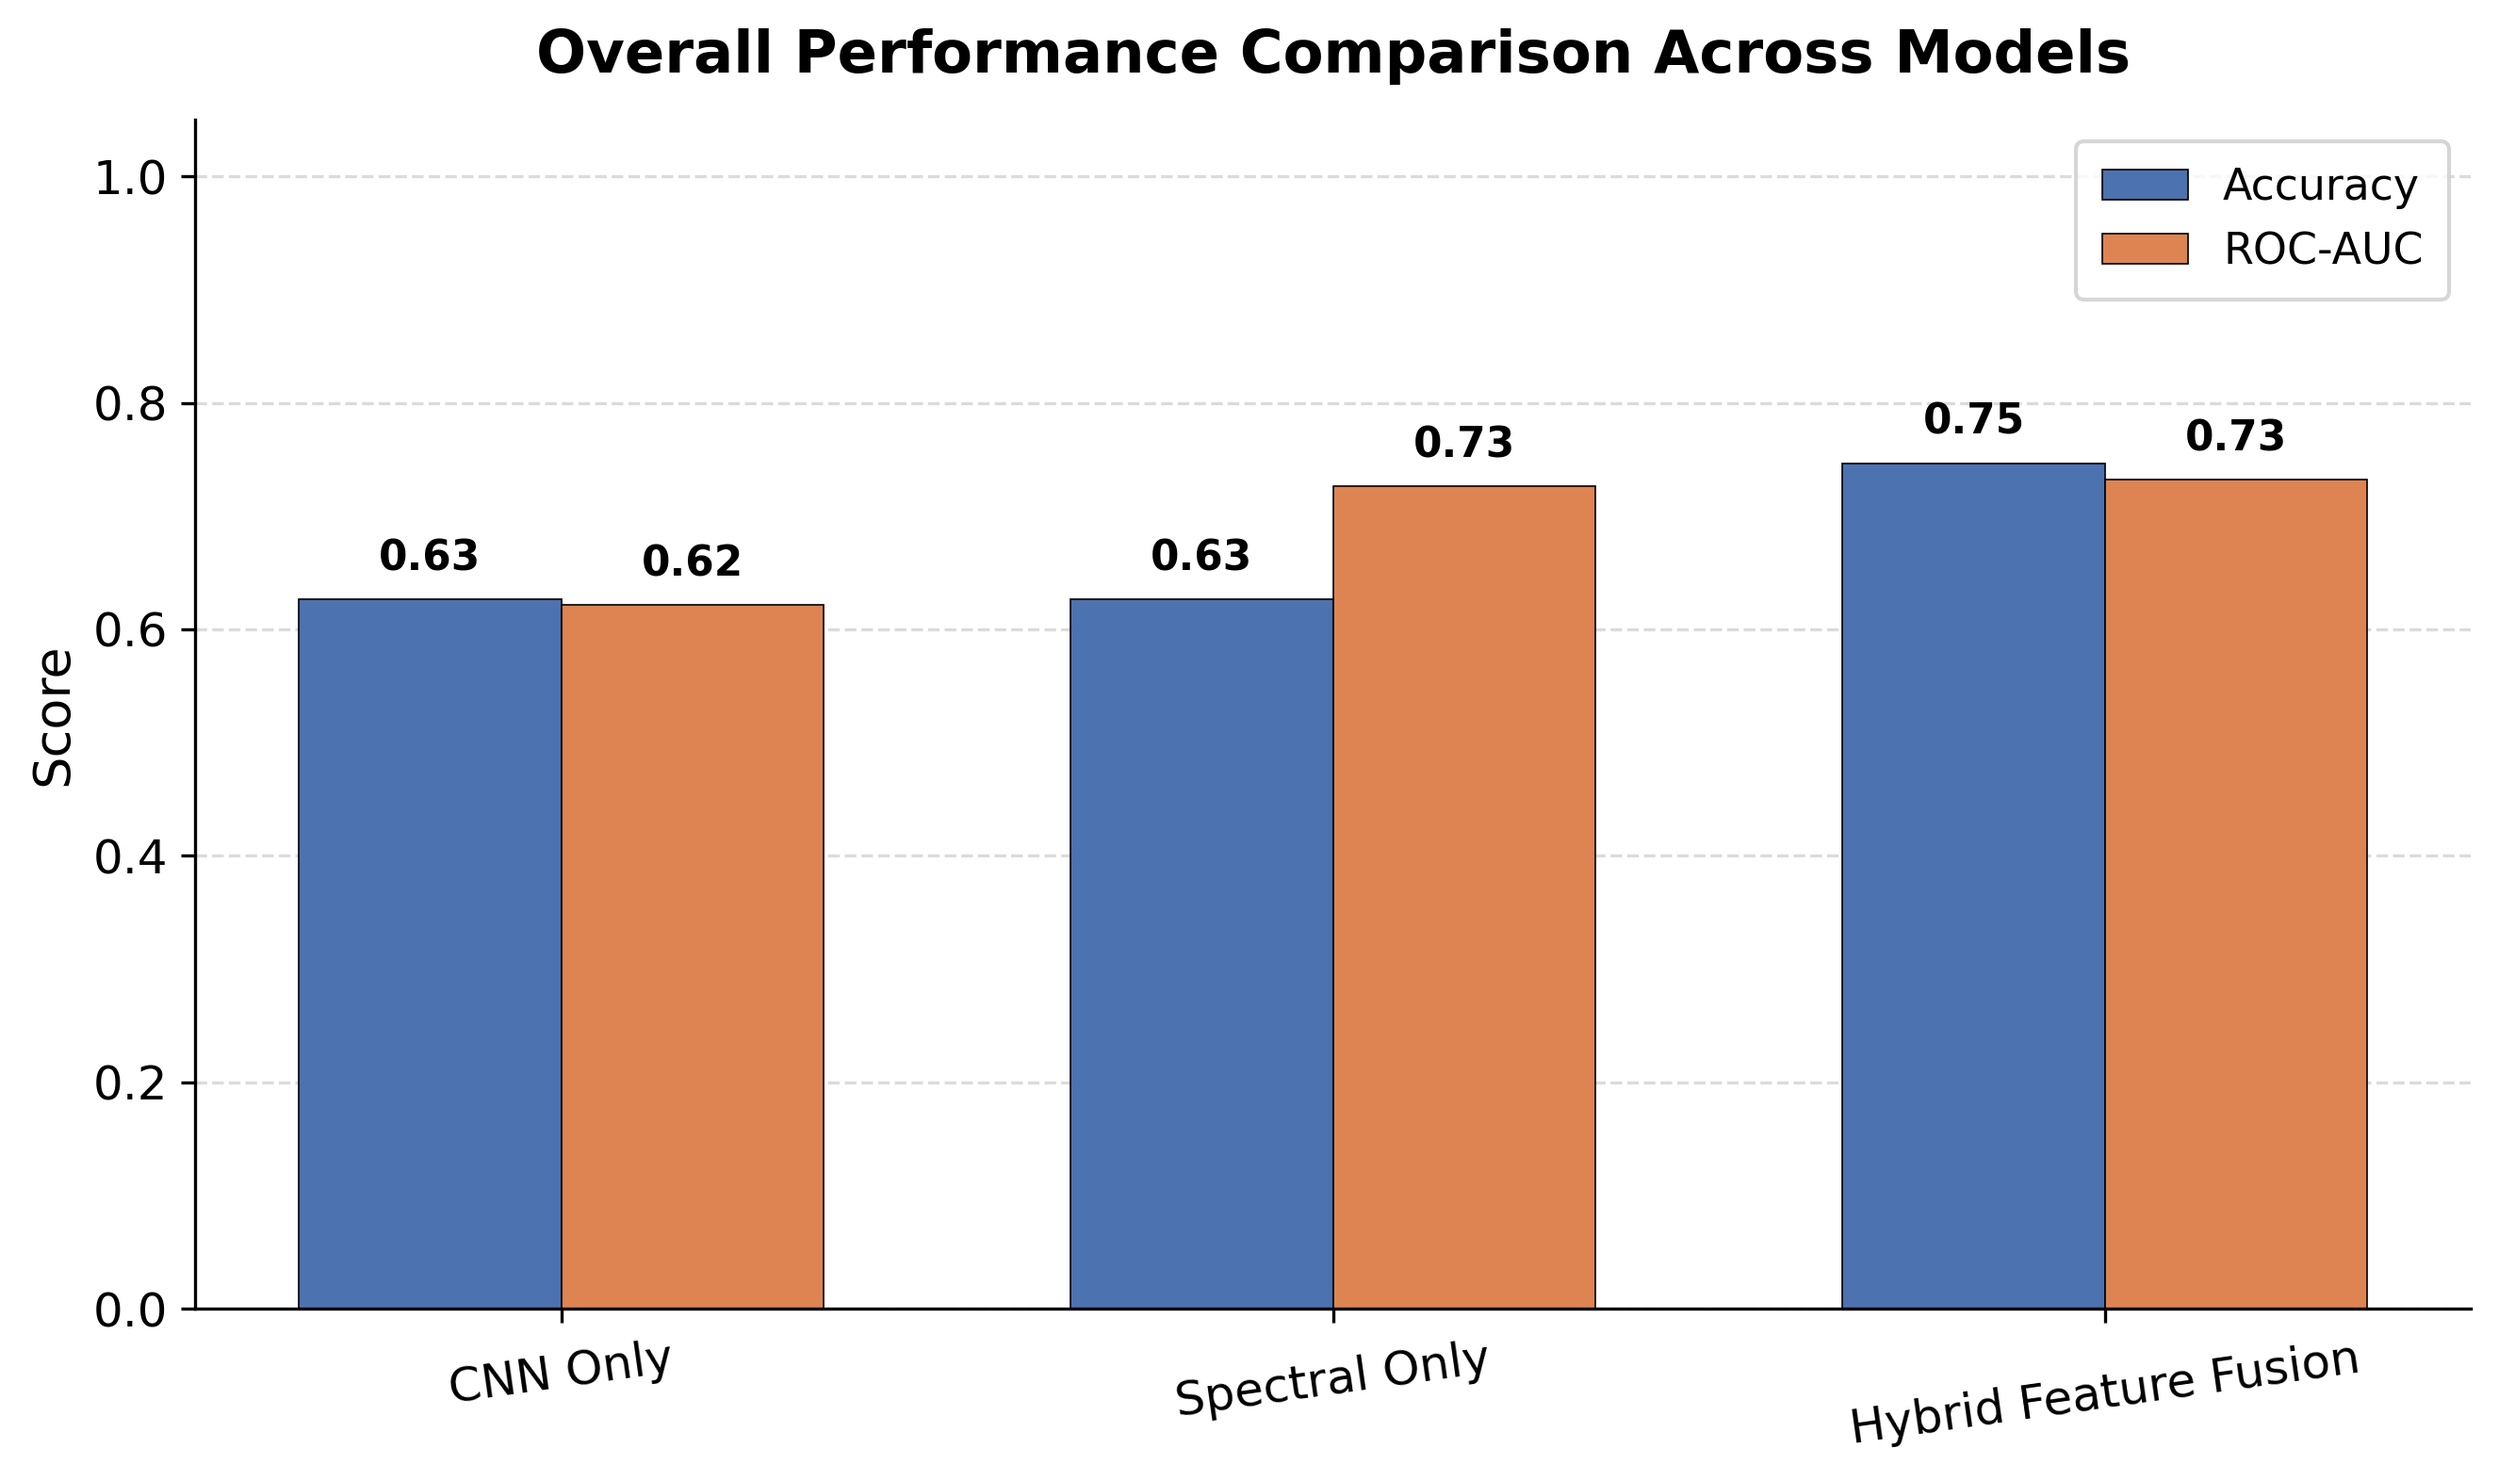
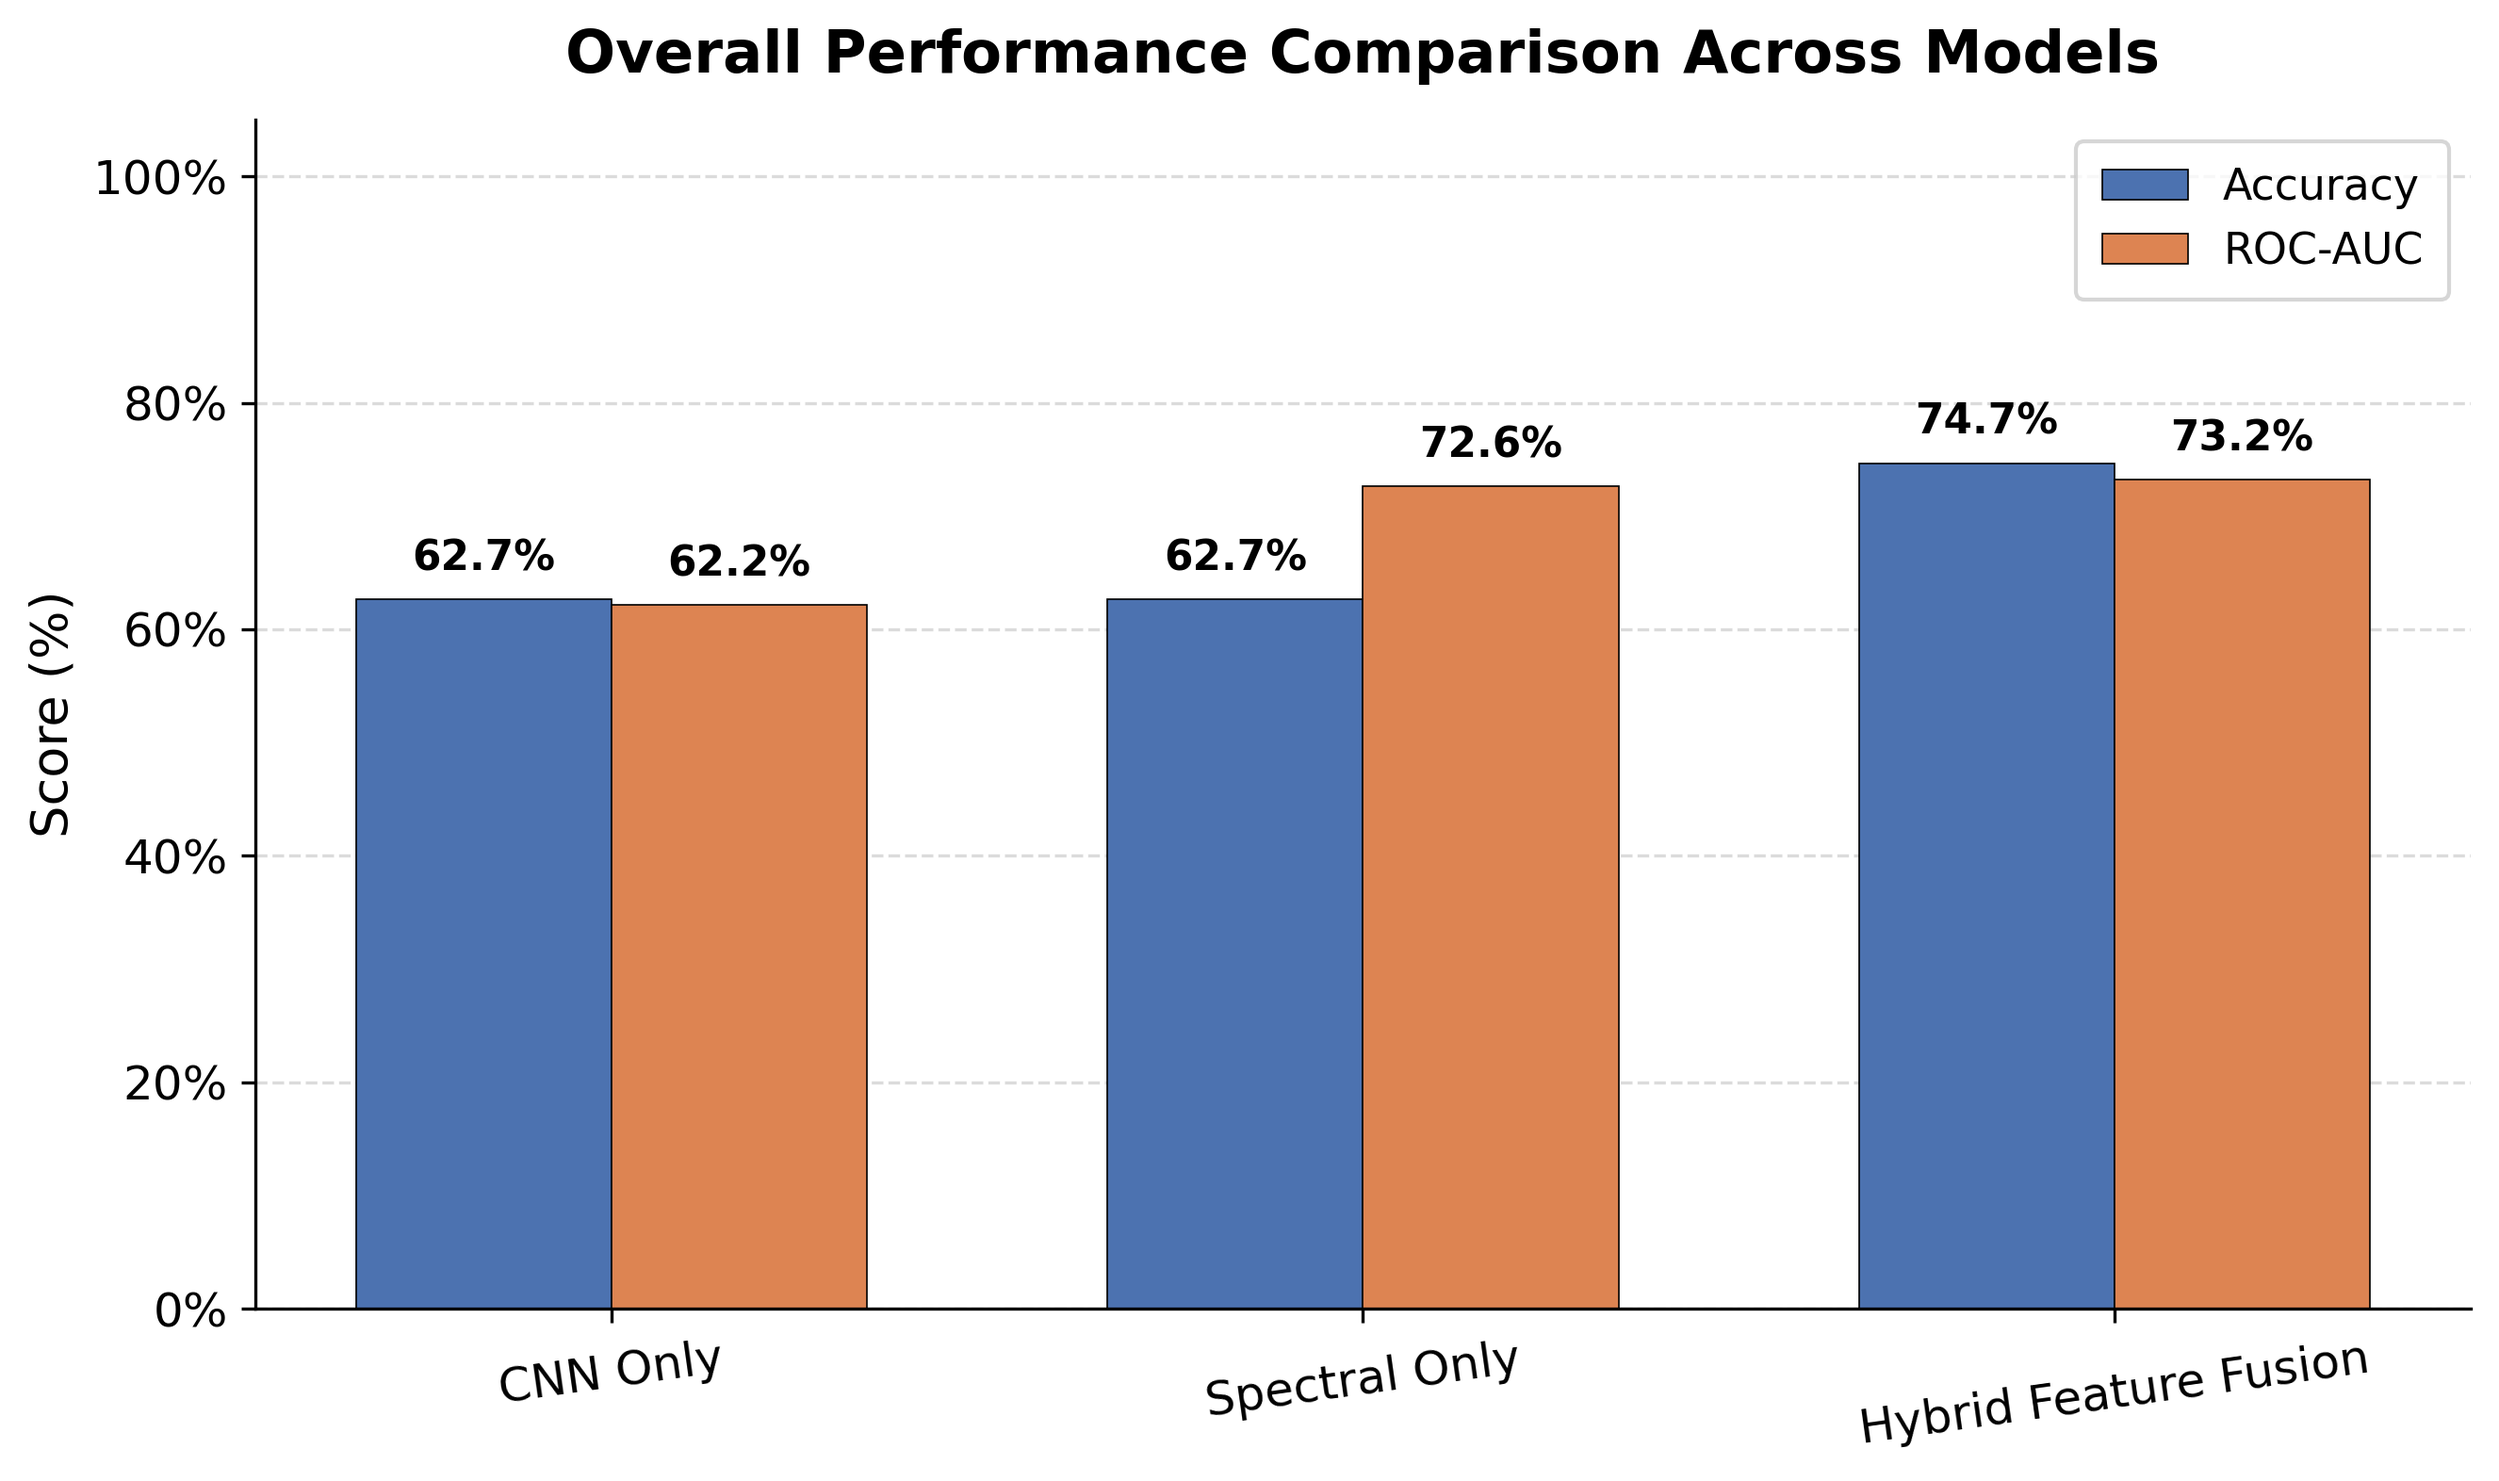
Add research code and notebooks

diff --git a/src/step12_bootstrap_ci.py b/src/step12_bootstrap_ci.py
@@ -1,0 +1,79 @@
+import numpy as np
+from sklearn.utils import resample
+from sklearn.metrics import (accuracy_score, precision_score,
+                             recall_score, f1_score)
+import pandas as pd
+import os
+
+# ============================================
+
+# ============================================
+
+jaipur_csv = "outputs/hybrid_feature_fusion/cross_region_predictions.csv"
+
+if os.path.exists(jaipur_csv):
+    # Real predictions file se load karo
+    df = pd.read_csv(jaipur_csv)
+    y_true = df["label"].values
+    y_pred = df["prediction"].values
+    print("✅ Jaipur predictions file se load ki!")
+
+else:
+    # Fallback — confusion matrix manually
+    print("⚠ File nahi mili, confusion matrix se use kar raha hoon...")
+    y_true = np.array([0]*50 + [1]*50)
+    y_pred = np.array([0]*42 + [1]*8 +
+                      [0]*27 + [1]*23)
+
+# ============================================
+# Bootstrap — 1000 iterations, seed=42
+# ============================================
+np.random.seed(42)
+
+n_iter = 1000
+metrics = {"Accuracy": [], "Precision": [], "Recall": [], "F1-Score": []}
+
+for _ in range(n_iter):
+    idx = resample(np.arange(len(y_true)), replace=True, n_samples=len(y_true))
+    yt = y_true[idx]
+    yp = y_pred[idx]
+
+    metrics["Accuracy"].append(accuracy_score(yt, yp))
+    metrics["Precision"].append(precision_score(yt, yp, zero_division=0))
+    metrics["Recall"].append(recall_score(yt, yp, zero_division=0))
+    metrics["F1-Score"].append(f1_score(yt, yp, zero_division=0))
+
+# ============================================
+# Results Print + Save
+# ============================================
+print("\n" + "="*55)
+print("  95% Bootstrap Confidence Intervals")
+print("  (n=1000 iterations, fixed seed=42)")
+print("="*55)
+
+results = {}
+for name, scores in metrics.items():
+    lo  = np.percentile(scores, 2.5)
+    hi  = np.percentile(scores, 97.5)
+    mn  = np.mean(scores)
+    results[name] = (mn, lo, hi)
+    print(f"{name:12s}: {mn*100:.2f}%  [{lo*100:.2f}% – {hi*100:.2f}%]")
+
+print("="*55)
+print("\n📋 Manuscript mein copy karo (Section 1.5.5):\n")
+for name, (mn, lo, hi) in results.items():
+    print(f"{name}: {mn*100:.2f}% (95% CI: {lo*100:.2f}%–{hi*100:.2f}%)")
+
+# Save to file
+os.makedirs("outputs/bootstrap", exist_ok=True)
+with open("outputs/bootstrap/bootstrap_ci_results.txt", "w") as f:
+    f.write("95% Bootstrap Confidence Intervals\n")
+    f.write("n=1000 iterations, seed=42\n")
+    f.write("="*40 + "\n")
+    for name, (mn, lo, hi) in results.items():
+        f.write(f"{name}: {mn*100:.2f}% [{lo*100:.2f}% - {hi*100:.2f}%]\n")
+    f.write("\nManuscript text:\n")
+    for name, (mn, lo, hi) in results.items():
+        f.write(f"{name}: {mn*100:.2f}% (95% CI: {lo*100:.2f}%–{hi*100:.2f}%)\n")
+
+print("\n✅ Results saved: outputs/bootstrap/bootstrap_ci_results.txt")

diff --git a/src/step9_hybrid_feature_fusion.py b/src/step9_hybrid_feature_fusion.py
@@ -138,10 +138,10 @@ def load_hybrid_features(csv_path, feature_extractor):
 # --------------------------------------------------
 # Main Pipeline
 # --------------------------------------------------
-print("📥 Loading CNN feature extractor...")
+print("Loading CNN feature extractor...")
 feature_extractor = build_cnn_feature_extractor()
 
-print("\n📥 Extracting hybrid features...")
+print("\nExtracting hybrid features...")
 X_train, y_train = load_hybrid_features(train_csv, feature_extractor)
 X_val, y_val = load_hybrid_features(val_csv, feature_extractor)
 X_test, y_test = load_hybrid_features(test_csv, feature_extractor)
@@ -150,13 +150,13 @@ print("Train fused feature shape:", X_train.shape)
 print("Validation fused feature shape:", X_val.shape)
 print("Test fused feature shape:", X_test.shape)
 
-print("\n⚙ Scaling fused features...")
+print("\nScaling fused features...")
 scaler = StandardScaler()
 X_train_scaled = scaler.fit_transform(X_train)
 X_val_scaled = scaler.transform(X_val)
 X_test_scaled = scaler.transform(X_test)
 
-print("\n🚀 Training Random Forest fusion classifier...")
+print("\nTraining Random Forest fusion classifier...")
 
 rf = RandomForestClassifier(
     n_estimators=300,
@@ -172,7 +172,7 @@ rf.fit(X_train_scaled, y_train)
 # --------------------------------------------------
 # Validation threshold selection
 # --------------------------------------------------
-print("\n🔍 Selecting decision threshold using validation set...")
+print("\nSelecting decision threshold using validation set...")
 
 val_prob = rf.predict_proba(X_val_scaled)[:, 1]
 
@@ -194,7 +194,7 @@ print("Validation Macro-F1:", round(best_macro_f1, 4))
 # --------------------------------------------------
 # Test Evaluation
 # --------------------------------------------------
-print("\n🧪 Evaluating final hybrid feature fusion model...")
+print("\nEvaluating final hybrid feature fusion model...")
 
 test_prob = rf.predict_proba(X_test_scaled)[:, 1]
 test_pred = (test_prob >= best_threshold).astype(int)
@@ -208,7 +208,7 @@ recall = recall_score(y_test, test_pred, zero_division=0)
 f1 = f1_score(y_test, test_pred, zero_division=0)
 auc = roc_auc_score(y_test, test_prob)
 
-print("\n✅ Step 9: Final Hybrid Feature Fusion Complete")
+print("\nStep 9: Final Hybrid Feature Fusion Complete")
 
 print("\nClassification Report:")
 print(report)

diff --git a/src/step_fig.py b/src/step_fig.py
@@ -1,0 +1,81 @@
+import numpy as np
+import matplotlib.pyplot as plt
+from sklearn.metrics import ConfusionMatrixDisplay
+
+# Use clean publication-style background
+plt.style.use('default')
+
+# Confusion matrices
+matrices = {
+    "CNN-only Model": np.array([[37, 1],
+                                [27, 10]]),
+
+    "Spectral-only Model": np.array([[14, 24],
+                                     [4, 33]]),
+
+    "Hybrid Fusion Model": np.array([[31, 7],
+                                     [12, 25]])
+}
+
+# Better scientific labels
+labels = ["Real", "Manipulated"]
+
+# Create figure
+fig, axes = plt.subplots(1, 3, figsize=(15, 4.8))
+
+# Pure white background
+fig.patch.set_facecolor('white')
+
+# Plot matrices
+for i, (ax, (title, cm)) in enumerate(zip(axes, matrices.items())):
+
+    disp = ConfusionMatrixDisplay(
+        confusion_matrix=cm,
+        display_labels=labels
+    )
+
+    disp.plot(
+        ax=ax,
+        cmap="Blues",
+        colorbar=False,
+        values_format="d"
+    )
+
+    # Titles
+    ax.set_title(title, fontsize=13, fontweight="bold")
+
+    # Remove repeated labels
+    if i == 0:
+        ax.set_ylabel("True Label", fontsize=11)
+    else:
+        ax.set_ylabel("")
+
+    ax.set_xlabel("Predicted Label", fontsize=11)
+
+    # Equal square cells
+    ax.set_aspect('equal')
+
+    # Make numbers bold and larger
+    for text in disp.text_.ravel():
+        text.set_fontsize(13)
+        text.set_fontweight("bold")
+
+# Main title
+plt.suptitle(
+    "Internal Evaluation Confusion Matrices",
+    fontsize=16,
+    fontweight="bold"
+)
+
+# Adjust spacing
+plt.tight_layout()
+
+# Save high-quality figure
+plt.savefig(
+    "internal_model_confusion_matrices.png",
+    dpi=300,
+    bbox_inches="tight",
+    facecolor='white'
+)
+
+plt.show()

diff --git a/src/step8_spectral_anomaly_model.py b/src/step8_spectral_anomaly_model.py
@@ -107,7 +107,7 @@ def find_best_threshold(scores, labels):
     return best_threshold, best_f1, best_acc
 
 
-print("📥 Loading validation data...")
+print("Loading validation data...")
 val_df, val_scores, val_labels, _ = get_scores(val_csv)
 
 best_threshold, best_val_f1, best_val_acc = find_best_threshold(
@@ -118,13 +118,13 @@ best_threshold, best_val_f1, best_val_acc = find_best_threshold(
 val_preds = (val_scores >= best_threshold).astype(int)
 val_auc = roc_auc_score(val_labels, val_scores)
 
-print("\n✅ Validation threshold selected")
+print("\nValidation threshold selected")
 print("Threshold:", best_threshold)
 print("Validation Accuracy:", round(best_val_acc, 4))
 print("Validation F1:", round(best_val_f1, 4))
 print("Validation ROC-AUC:", round(val_auc, 4))
 
-print("\n📥 Loading test data...")
+print("\nLoading test data...")
 test_df, test_scores, test_labels, test_paths = get_scores(test_csv)
 
 test_preds = (test_scores >= best_threshold).astype(int)
@@ -138,7 +138,7 @@ test_recall = recall_score(test_labels, test_preds, zero_division=0)
 test_f1 = f1_score(test_labels, test_preds, zero_division=0)
 test_auc = roc_auc_score(test_labels, test_scores)
 
-print("\n✅ Final Clean Step 8 Complete")
+print("\nFinal Clean Step 8 Complete")
 print("\nTest score range:")
 print("Min:", test_scores.min())
 print("Max:", test_scores.max())

diff --git a/src/step10_compare_results.py b/src/step10_compare_results.py
@@ -81,7 +81,7 @@ def grouped_bar_plot(metrics, title, filename):
 
         bars = ax.bar(
             x + offset,
-            df[metric],
+            df[metric] * 100,  # Convert to percentage
             width,
             label=metric,
             color=color,
@@ -93,19 +93,23 @@ def grouped_bar_plot(metrics, title, filename):
             height = bar.get_height()
             ax.text(
                 bar.get_x() + bar.get_width() / 2,
-                height + 0.018,
-                f"{height:.2f}",
+                height + 1.8,  # Adjusted offset for percentage scale
+                f"{height:.1f}%",  # Display as percentage
                 ha="center",
                 va="bottom",
                 fontsize=10.5,
                 fontweight="bold"
             )
 
-    ax.set_ylim(0, 1.05)
-    ax.set_ylabel("Score")
+    ax.set_ylim(0, 105)  # 0-100% with some padding
+    ax.set_ylabel("Score (%)")  # Updated label
     ax.set_title(title, pad=12)
     ax.set_xticks(x)
     ax.set_xticklabels(models, rotation=8, ha="center")
+
+    # Y-axis ticks in percentage
+    ax.set_yticks([0, 20, 40, 60, 80, 100])
+    ax.set_yticklabels(["0%", "20%", "40%", "60%", "80%", "100%"])
 
     ax.grid(axis="y", linestyle="--", linewidth=0.8, alpha=0.45)
     ax.set_axisbelow(True)

diff --git a/src/step7_train_cnn_baseline.py b/src/step7_train_cnn_baseline.py
@@ -38,7 +38,7 @@ def load_data(csv_path):
     return np.array(X, dtype="float32"), np.array(y, dtype="int32")
 
 
-print("📥 Loading data...")
+print("Loading data...")
 X_train, y_train = load_data(train_csv)
 X_val, y_val = load_data(val_csv)
 X_test, y_test = load_data(test_csv)
@@ -87,7 +87,7 @@ checkpoint = callbacks.ModelCheckpoint(
     save_best_only=True
 )
 
-print("\n🚀 Training CNN baseline...")
+print("\nTraining CNN baseline...")
 
 history = model.fit(
     X_train, y_train,
@@ -98,7 +98,7 @@ history = model.fit(
     verbose=1
 )
 
-print("\n🧪 Evaluating on test set...")
+print("\Evaluating on test set...")
 
 y_prob = model.predict(X_test).ravel()
 y_pred = (y_prob >= 0.5).astype(int)
@@ -125,5 +125,5 @@ with open(os.path.join(output_dir, "cnn_baseline_results.txt"), "w") as f:
     f.write("\n\nROC-AUC: ")
     f.write(str(round(auc, 4)))
 
-print("\n✅ Step 7 complete.")
+print("\nStep 7 complete.")
 print("Results saved in:", output_dir)
